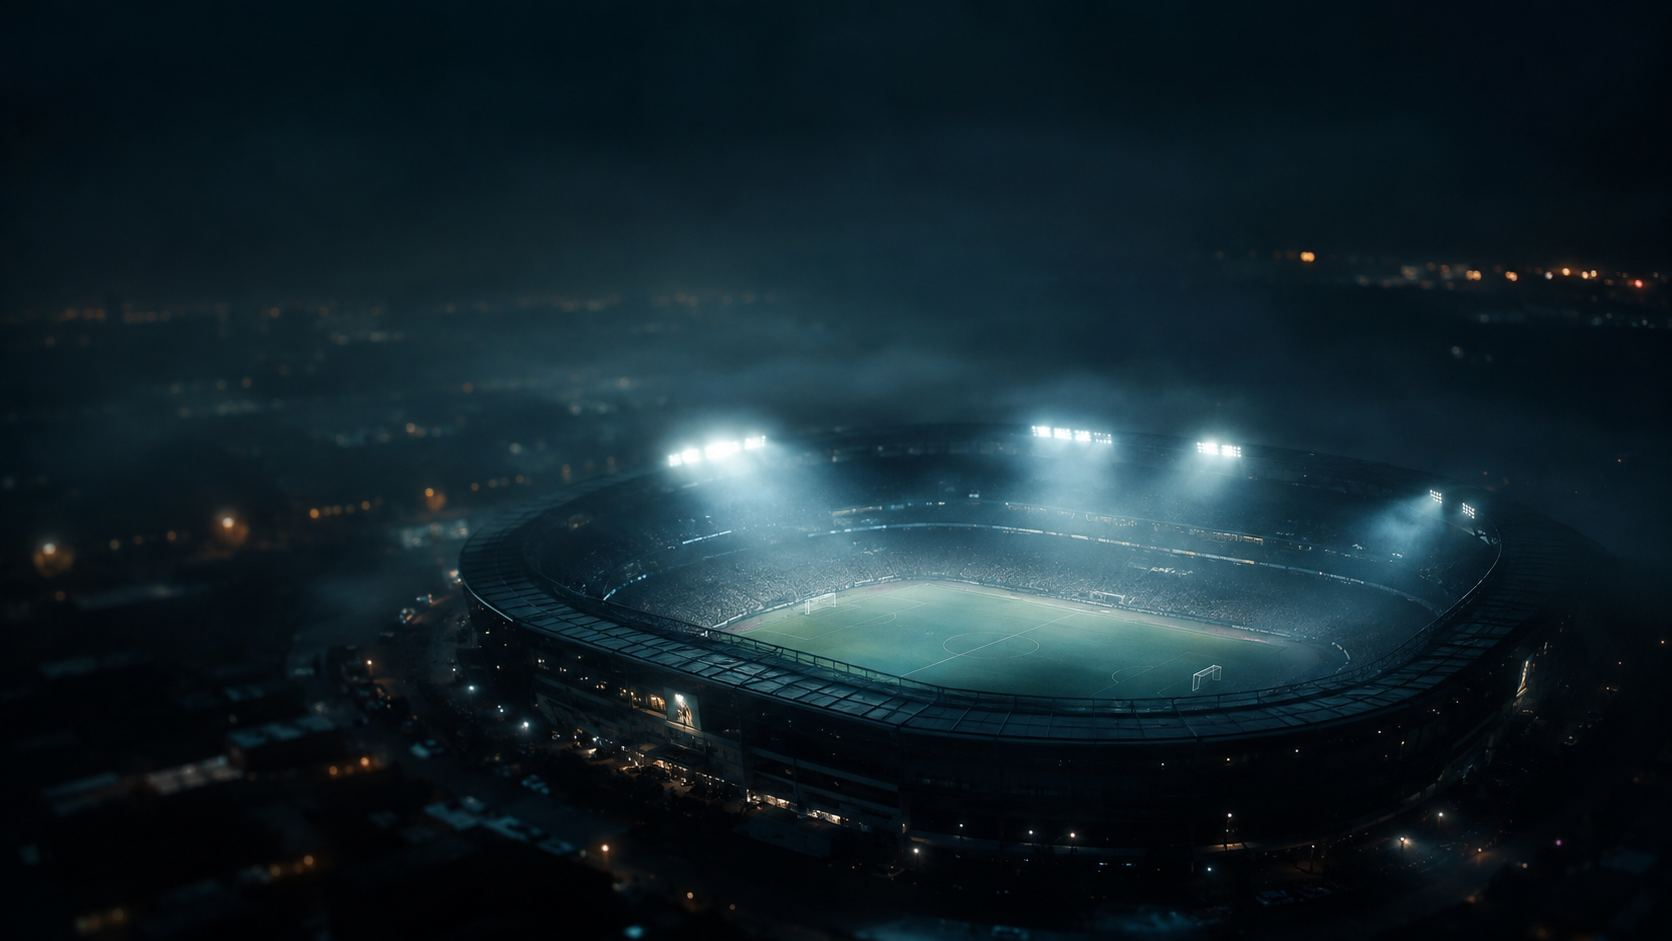
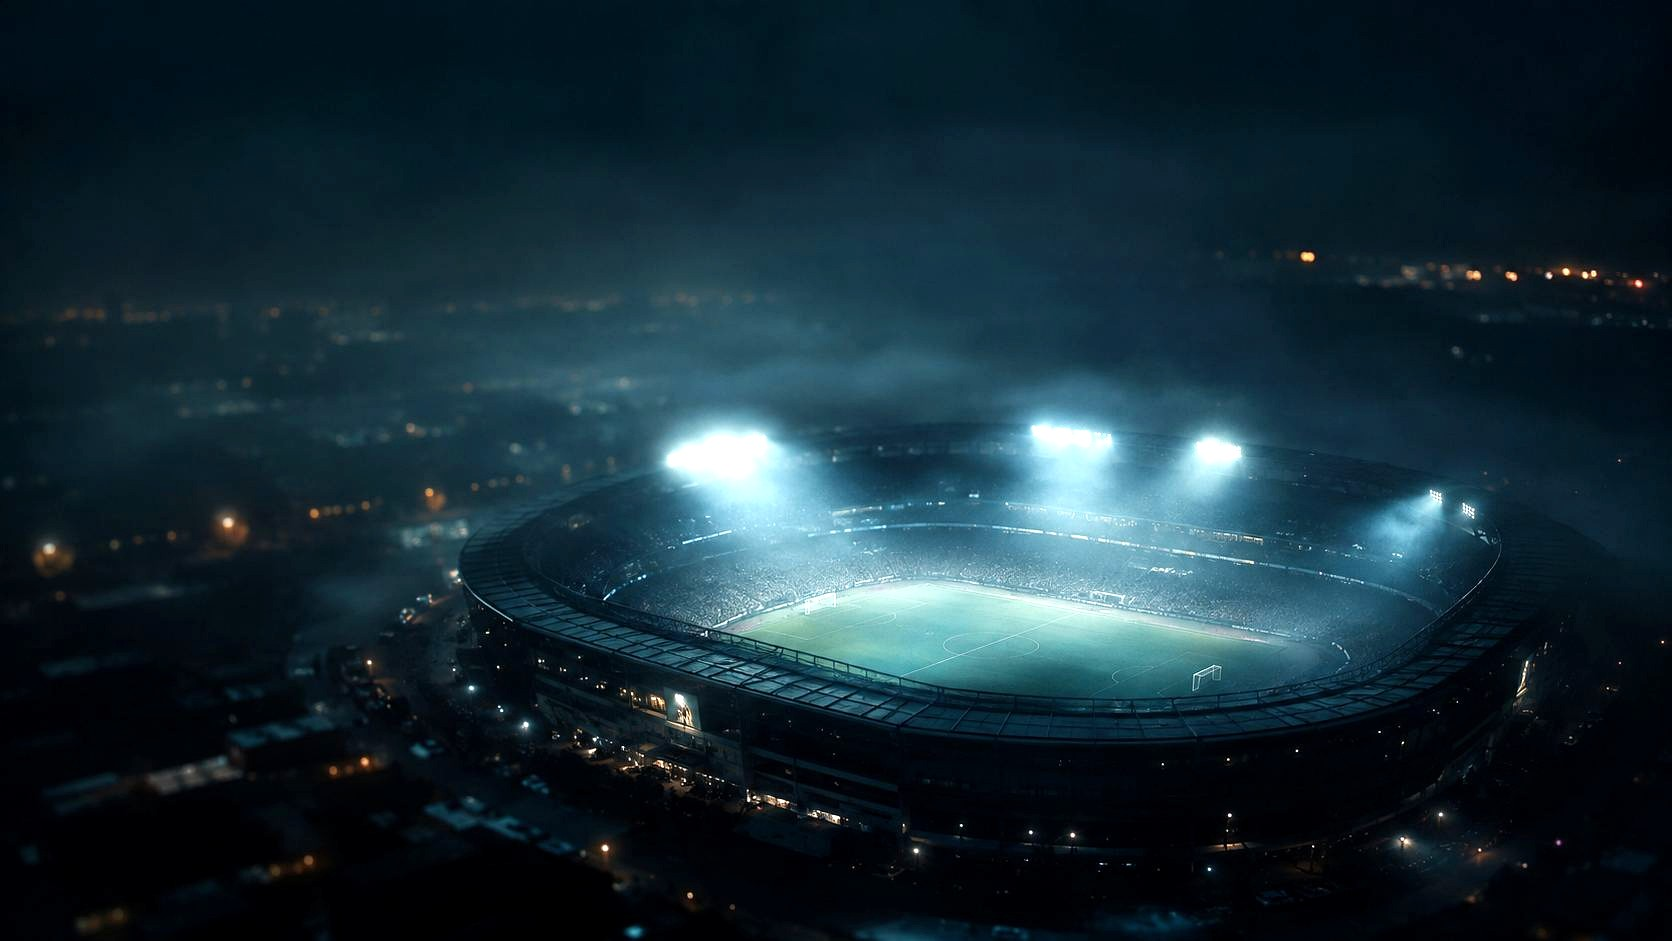
Brighten and sharpen stadium background, add reusable StadiumBackground component to dashboard too

diff --git a/src/app/login/page.tsx b/src/app/login/page.tsx
@@ -1,5 +1,6 @@
 import { logIn } from '@/lib/actions/auth';
 import { PasswordInput } from '@/components/PasswordInput';
+import { StadiumBackground } from '@/components/StadiumBackground';
 import Link from 'next/link';
 
 export default async function LoginPage({
@@ -10,11 +11,8 @@ export default async function LoginPage({
   const { error, info } = await searchParams;
 
   return (
-    <div
-      className="min-h-screen flex items-center justify-center px-6 relative bg-cover bg-center bg-no-repeat"
-      style={{ backgroundImage: "url('/images/stadium-bg.jpg')" }}
-    >
-      <div className="absolute inset-0 bg-black/70" />
+    <div className="min-h-screen flex items-center justify-center px-6 relative">
+      <StadiumBackground overlay={0.5} />
       <div className="w-full max-w-sm relative z-10">
         <div className="mb-6 text-center">
           <div className="relative w-24 h-28 mx-auto mb-2">

diff --git a/src/app/dashboard/page.tsx b/src/app/dashboard/page.tsx
@@ -3,6 +3,7 @@ import { logOut } from '@/lib/actions/auth';
 import { redirect } from 'next/navigation';
 import Link from 'next/link';
 import { AnimatedNumber } from '@/components/AnimatedNumber';
+import { StadiumBackground } from '@/components/StadiumBackground';
 
 const MIDFIELD_ATTACK_LABELS: Record<string, string> = {
   touches: 'Touches de balle',
@@ -116,7 +117,8 @@ export default async function DashboardPage() {
   const avgRating = ratingCount > 0 ? (ratingSum / ratingCount).toFixed(1) : null;
 
   return (
-    <div className="min-h-screen px-5 py-8 max-w-2xl mx-auto">
+    <div className="min-h-screen px-5 py-8 max-w-2xl mx-auto relative">
+      <StadiumBackground overlay={0.65} />
       <div className="flex justify-between items-center mb-2">
         {user.email === 'cedriccassy312@gmail.com' ? (
           <Link href="/admin" className="text-muted text-sm hover:text-foreground">

diff --git a/src/components/StadiumBackground.tsx b/src/components/StadiumBackground.tsx
@@ -1,0 +1,11 @@
+export function StadiumBackground({ overlay = 0.55 }: { overlay?: number }) {
+  return (
+    <div className="fixed inset-0 -z-10 overflow-hidden">
+      <div
+        className="absolute inset-0 bg-cover bg-center bg-no-repeat"
+        style={{ backgroundImage: "url('/images/stadium-bg.jpg')" }}
+      />
+      <div className="absolute inset-0 bg-black" style={{ opacity: overlay }} />
+    </div>
+  );
+}
